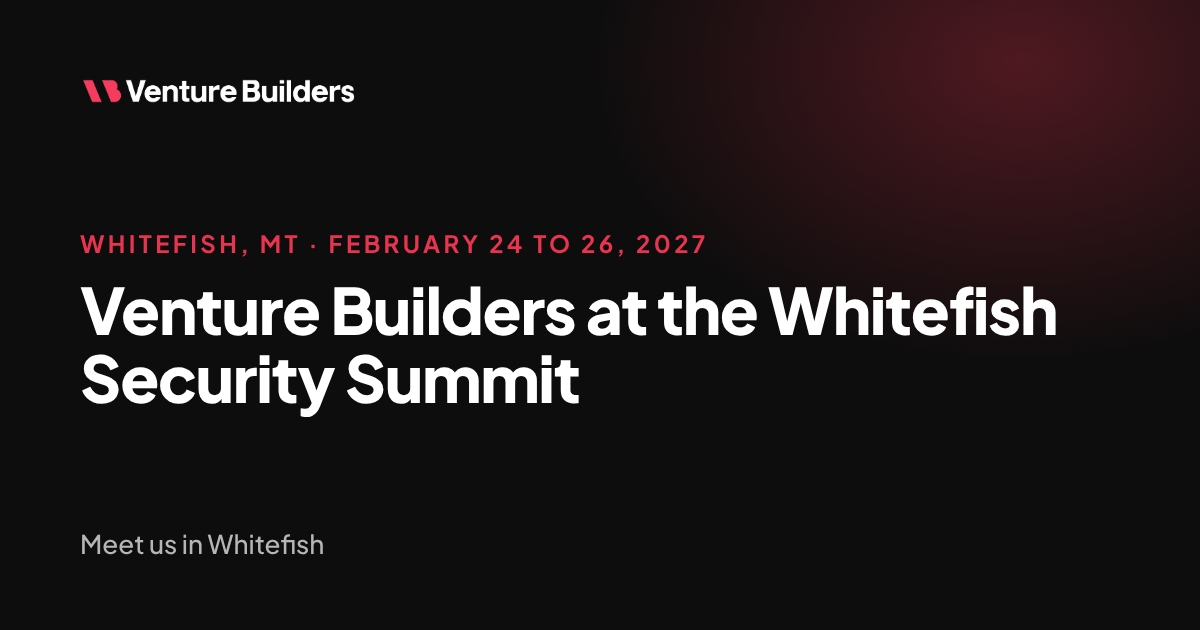
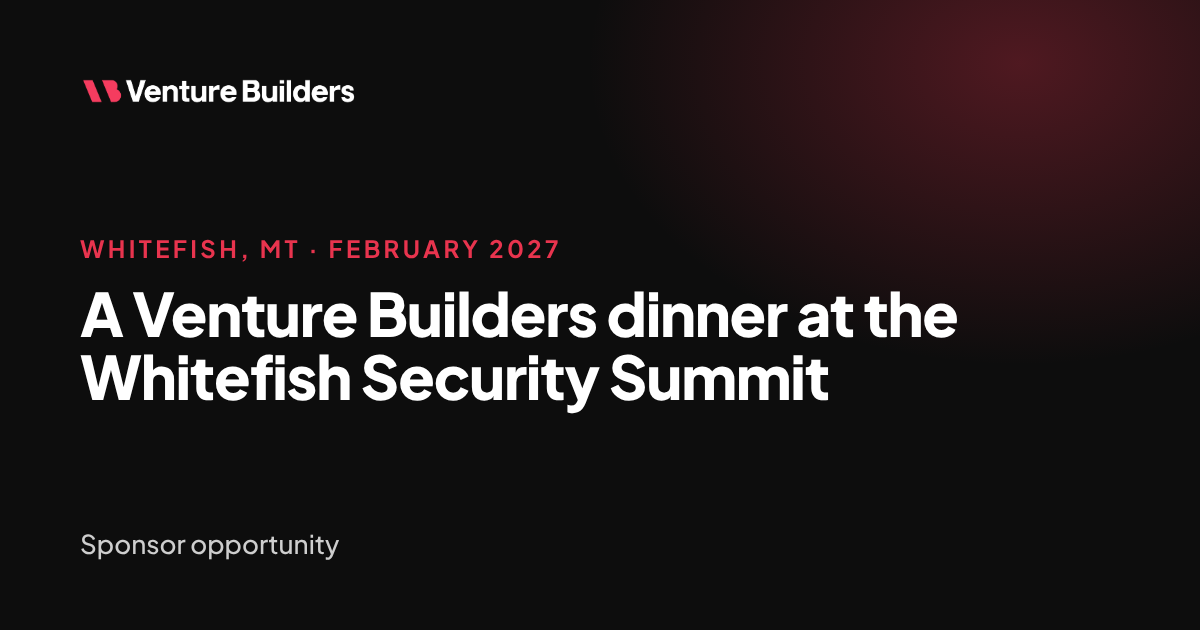
Event pages: Steve as host, no Luma link, Metropolitan hero; Whitefish as a sponsored dinner
Claude-Session: https://claude.ai/code/session_01PXg52VgSJg25MDTiPLEQFz

diff --git a/events/cheyenne-2027.html b/events/cheyenne-2027.html
@@ -20,20 +20,20 @@
   <meta charset="UTF-8">
   <meta name="viewport" content="width=device-width, initial-scale=1">
   <title>Venture Builders | gBETA Wyoming luncheon, Cheyenne, January 27, 2027</title>
-  <meta name="description" content="A private, seated lunch in Cheyenne, Wyoming for founders, accelerator leaders and investors, hosted by Venture Builders Fund and gBETA Wyoming, with lunch sponsored by Wells Fargo.">
+  <meta name="description" content="A private, seated lunch in Cheyenne, Wyoming for founders, accelerator leaders and investors, hosted by Venture Builders Fund with accelerator partner gBETA Wyoming and lunch sponsored by Wells Fargo.">
   <meta name="robots" content="index, follow">
   <link rel="canonical" href="https://venturebuilders.fund/events/cheyenne-2027">
   <meta property="og:type" content="website">
   <meta property="og:site_name" content="Venture Builders Fund">
   <meta property="og:title" content="Venture Builders | gBETA Wyoming luncheon, Cheyenne, January 27, 2027">
-  <meta property="og:description" content="A private, seated lunch in Cheyenne, Wyoming for founders, accelerator leaders and investors, hosted by Venture Builders Fund and gBETA Wyoming, with lunch sponsored by Wells Fargo.">
+  <meta property="og:description" content="A private, seated lunch in Cheyenne, Wyoming for founders, accelerator leaders and investors, hosted by Venture Builders Fund with accelerator partner gBETA Wyoming and lunch sponsored by Wells Fargo.">
   <meta property="og:url" content="https://venturebuilders.fund/events/cheyenne-2027">
   <meta property="og:image" content="https://venturebuilders.fund/images/events/og/cheyenne-2027.png">
   <meta property="og:image:width" content="1200">
   <meta property="og:image:height" content="630">
   <meta name="twitter:card" content="summary_large_image">
   <meta name="twitter:title" content="Venture Builders | gBETA Wyoming luncheon, Cheyenne, January 27, 2027">
-  <meta name="twitter:description" content="A private, seated lunch in Cheyenne, Wyoming for founders, accelerator leaders and investors, hosted by Venture Builders Fund and gBETA Wyoming, with lunch sponsored by Wells Fargo.">
+  <meta name="twitter:description" content="A private, seated lunch in Cheyenne, Wyoming for founders, accelerator leaders and investors, hosted by Venture Builders Fund with accelerator partner gBETA Wyoming and lunch sponsored by Wells Fargo.">
   <meta name="twitter:image" content="https://venturebuilders.fund/images/events/og/cheyenne-2027.png">
   <script type="application/ld+json">
 {
@@ -44,7 +44,7 @@
       "@id": "https://venturebuilders.fund/events/cheyenne-2027",
       "url": "https://venturebuilders.fund/events/cheyenne-2027",
       "name": "Venture Builders | gBETA Wyoming luncheon, Cheyenne, January 27, 2027",
-      "description": "A private, seated lunch in Cheyenne, Wyoming for founders, accelerator leaders and investors, hosted by Venture Builders Fund and gBETA Wyoming, with lunch sponsored by Wells Fargo.",
+      "description": "A private, seated lunch in Cheyenne, Wyoming for founders, accelerator leaders and investors, hosted by Venture Builders Fund with accelerator partner gBETA Wyoming and lunch sponsored by Wells Fargo.",
       "isPartOf": {
         "@type": "WebSite",
         "name": "Venture Builders Fund",
@@ -81,7 +81,7 @@
       "endDate": "2027-01-27T13:00:00-07:00",
       "eventStatus": "https://schema.org/EventScheduled",
       "eventAttendanceMode": "https://schema.org/OfflineEventAttendanceMode",
-      "description": "A private, seated lunch for founders, accelerator leaders and investors, by invitation.",
+      "description": "A private, seated lunch for founders, accelerator leaders and investors, by invitation only, hosted by Venture Builders Fund with accelerator partner gBETA Wyoming.",
       "image": "https://venturebuilders.fund/images/events/og/cheyenne-2027.png",
       "location": {
         "@type": "Place",
@@ -95,18 +95,11 @@
           "addressCountry": "US"
         }
       },
-      "organizer": [
-        {
-          "@type": "Organization",
-          "name": "Venture Builders Fund",
-          "url": "https://venturebuilders.fund/"
-        },
-        {
-          "@type": "Organization",
-          "name": "gBETA Wyoming",
-          "url": "https://www.gener8tor.com/gbeta"
-        }
-      ],
+      "organizer": {
+        "@type": "Organization",
+        "name": "Venture Builders Fund",
+        "url": "https://venturebuilders.fund/"
+      },
       "sponsor": {
         "@type": "Organization",
         "name": "Wells Fargo",
@@ -274,7 +267,7 @@
     .evp-hero h1 .accent{color:var(--accent)}
     .evp-sub{font-size:1.08rem;line-height:1.75;color:rgba(255,255,255,0.72);max-width:640px}
     .evp-actions{display:flex;flex-wrap:wrap;gap:0.75rem;margin-top:2rem}
-    .evp-card{background:#161616;border:1px solid rgba(255,255,255,0.1);border-radius:16px;padding:1.6rem}
+    .evp-card{background:rgba(18,18,18,0.72);backdrop-filter:blur(10px);-webkit-backdrop-filter:blur(10px);border:1px solid rgba(255,255,255,0.12);border-radius:16px;padding:1.6rem}
     .evp-card dl{display:grid;gap:1.1rem;margin:0}
     .evp-card dt{font-size:0.68rem;font-weight:700;letter-spacing:0.14em;text-transform:uppercase;color:var(--accent);margin-bottom:0.2rem}
     .evp-card dd{margin:0;font-size:0.98rem;line-height:1.5;color:#fff}
@@ -337,16 +330,16 @@
   </div>
   <div class="nav-overlay" id="nav-overlay"></div>
 <main>
-  <section class="evp-hero" aria-label="Cheyenne, January 2027">
+  <section class="evp-hero" style="background:linear-gradient(90deg,rgba(13,13,13,0.92) 0%,rgba(13,13,13,0.55) 45%,rgba(13,13,13,0.1) 100%),linear-gradient(to bottom,rgba(13,13,13,0) 60%,#0d0d0d 100%),url(/images/events/cheyenne-metropolitan.jpg) center 40%/cover no-repeat" aria-label="Cheyenne, January 2027">
     <div class="in">
       <div>
         <div class="evp-crumb"><a href="/">Home</a> / <a href="/events">Events</a> / Cheyenne, January 2027</div>
         <span class="evp-status"><i></i>Invitation only</span>
         <h1>Venture Builders <span class="accent">|</span> gBETA Wyoming luncheon</h1>
-        <p class="evp-sub">Venture Builders Fund and gener8tor's gBETA Wyoming are bringing founders, accelerator and ecosystem leaders and active investors together for a private lunch in downtown Cheyenne. No script and no pitches, just good conversation around one table.</p>
-        <div class="evp-actions"><a class="btn-primary" href="https://luma.com/8gj3ncg2" target="_blank" rel="noopener">Invited? Confirm your seat</a><a class="btn-ghost" href="/events#contact">Sponsor this lunch</a></div>
+        <p class="evp-sub">Venture Builders Fund is hosting a private lunch in downtown Cheyenne with our accelerator partner, gener8tor's gBETA Wyoming, bringing founders, accelerator and ecosystem leaders and active investors around one table. No script and no pitches, just good conversation.</p>
+        <div class="evp-actions"><a class="btn-primary" href="/events#contact">Sponsor this lunch</a><a class="btn-ghost" href="/calendar">See the 2027 calendar</a></div>
       </div>
-      <aside class="evp-card"><dl><div><dt>When</dt><dd>Wednesday, January 27, 2027<span>11:30 AM to 1:00 PM MST</span></dd></div><div><dt>Where</dt><dd>The Metropolitan Downtown<span>1701 Carey Ave, Cheyenne, WY 82001</span></dd></div><div><dt>Format</dt><dd>Reception, then a seated lunch<span>18 seats, by invitation</span></dd></div><div><dt>Hosts</dt><dd>Baylie Evans, gBETA Wyoming<span>Steve Hayton, Venture Builders Fund</span></dd></div></dl></aside>
+      <aside class="evp-card"><dl><div><dt>When</dt><dd>Wednesday, January 27, 2027<span>11:30 AM to 1:00 PM MST</span></dd></div><div><dt>Where</dt><dd>The Metropolitan Downtown<span>1701 Carey Ave, Cheyenne, WY 82001</span></dd></div><div><dt>Format</dt><dd>Reception, then a seated lunch<span>18 seats, by invitation only</span></dd></div><div><dt>Host</dt><dd>Steve Hayton<span>General Partner, Venture Builders Fund</span></dd></div><div><dt>Accelerator partner</dt><dd>Baylie Evans<span>Managing Director, gBETA Wyoming</span></dd></div></dl></aside>
     </div>
   </section>
 
@@ -355,7 +348,7 @@
       <div class="evp-body reveal">
         <p class="sec-tag">The afternoon</p>
         <h2 class="sec-h" style="margin-bottom:1.25rem">One table, the right people</h2>
-        <p>We start with a short reception at The Metropolitan, then sit down together for lunch. Every seat is planned by hand, and over coffee we move seats so everyone leaves having met someone new.</p><p>The room is kept small on purpose, so founders get real time with the investors and partners who can help them grow.</p>
+        <p>We start with a short reception at The Metropolitan, then sit down together for lunch. Every seat is planned by hand, and over coffee we move seats so everyone leaves having met someone new.</p><p>The room is kept small on purpose, so founders get real time with the investors and partners who can help them grow. Seats are by invitation only.</p>
         <div class="evp-who"><div><strong>Founders</strong><p>From the current gBETA Wyoming cohort, plus program alumni.</p></div><div><strong>Ecosystem leaders</strong><p>The gBETA Wyoming team and the accelerator and ecosystem builders around it.</p></div><div><strong>Corporate partners</strong><p>A small number of partners who back Wyoming's founders.</p></div><div><strong>Investors</strong><p>The Venture Builders Fund team and active investors.</p></div></div>
         
       </div>
@@ -364,9 +357,9 @@
 
   <section class="sec" style="background:#fafafa">
     <div style="max-width:1200px;margin:0 auto">
-      <div class="sec-header reveal"><p class="sec-tag">Hosts and sponsor</p><h2 class="sec-h">Who's making it happen</h2></div>
-      <div class="evp-logos reveal" style="margin-top:2rem"><a class="evp-logo" href="https://venturebuilders.fund/" target="_blank" rel="noopener"><div class="box"><img src="/logo-dark.png" alt="Venture Builders Fund" loading="lazy"></div><div><div class="role">Host</div><div class="nm">Venture Builders Fund</div></div><div class="ds">A seed-stage fund investing behind founders referred by startup ecosystem leaders.</div></a><a class="evp-logo" href="https://www.gener8tor.com/gbeta" target="_blank" rel="noopener"><div class="box"><img src="/images/events/logos/gbeta.png" alt="gBETA Wyoming" loading="lazy"></div><div><div class="role">Host partner</div><div class="nm">gBETA Wyoming</div></div><div class="ds">gener8tor's free, no-equity accelerator for early-stage companies with local roots.</div></a><a class="evp-logo" href="https://www.wellsfargo.com/" target="_blank" rel="noopener"><div class="box"><img src="/images/events/sponsor-wells-fargo.png" alt="Wells Fargo" loading="lazy"></div><div><div class="role">Lunch sponsor</div><div class="nm">Wells Fargo</div></div><div class="ds">Our lunch sponsor for the afternoon.</div></a></div>
-      <p class="evp-note reveal">Phone numbers collected when guests register are only used to confirm seats and are never shared with partners.</p>
+      <div class="sec-header reveal"><p class="sec-tag">Host, partner and sponsor</p><h2 class="sec-h">Who's making it happen</h2></div>
+      <div class="evp-logos reveal" style="margin-top:2rem"><a class="evp-logo" href="https://venturebuilders.fund/" target="_blank" rel="noopener"><div class="box"><img src="/logo-dark.png" alt="Venture Builders Fund" loading="lazy"></div><div><div class="role">Host</div><div class="nm">Venture Builders Fund</div></div><div class="ds">A seed-stage fund investing behind founders referred by startup ecosystem leaders.</div></a><a class="evp-logo" href="https://www.gener8tor.com/gbeta" target="_blank" rel="noopener"><div class="box"><img src="/images/events/logos/gbeta.png" alt="gBETA Wyoming" loading="lazy"></div><div><div class="role">Accelerator partner</div><div class="nm">gBETA Wyoming</div></div><div class="ds">gener8tor's free, no-equity accelerator for early-stage companies with local roots.</div></a><a class="evp-logo" href="https://www.wellsfargo.com/" target="_blank" rel="noopener"><div class="box"><img src="/images/events/sponsor-wells-fargo.png" alt="Wells Fargo" loading="lazy"></div><div><div class="role">Lunch sponsor</div><div class="nm">Wells Fargo</div></div><div class="ds">Our lunch sponsor for the afternoon.</div></a></div>
+      <p class="evp-note reveal"></p>
     </div>
   </section>
 

diff --git a/events/whitefish-2027.html b/events/whitefish-2027.html
@@ -19,21 +19,21 @@
   </script>
   <meta charset="UTF-8">
   <meta name="viewport" content="width=device-width, initial-scale=1">
-  <title>Venture Builders at the Whitefish Security Summit, February 24 to 26, 2027</title>
-  <meta name="description" content="Venture Builders Fund will be at the Whitefish Security Summit in Whitefish, Montana, February 24 to 26, 2027. Meet us if you&#x27;re building, funding or buying defense and dual-use technology.">
+  <title>Venture Builders dinner at the Whitefish Security Summit, February 2027</title>
+  <meta name="description" content="Venture Builders Fund is planning a private dinner in Whitefish, Montana during the Whitefish Security Summit, February 24 to 26, 2027, for defense founders, investors and government innovation funders. The dinner is open to a sponsor.">
   <meta name="robots" content="index, follow">
   <link rel="canonical" href="https://venturebuilders.fund/events/whitefish-2027">
   <meta property="og:type" content="website">
   <meta property="og:site_name" content="Venture Builders Fund">
-  <meta property="og:title" content="Venture Builders at the Whitefish Security Summit, February 24 to 26, 2027">
-  <meta property="og:description" content="Venture Builders Fund will be at the Whitefish Security Summit in Whitefish, Montana, February 24 to 26, 2027. Meet us if you&#x27;re building, funding or buying defense and dual-use technology.">
+  <meta property="og:title" content="Venture Builders dinner at the Whitefish Security Summit, February 2027">
+  <meta property="og:description" content="Venture Builders Fund is planning a private dinner in Whitefish, Montana during the Whitefish Security Summit, February 24 to 26, 2027, for defense founders, investors and government innovation funders. The dinner is open to a sponsor.">
   <meta property="og:url" content="https://venturebuilders.fund/events/whitefish-2027">
   <meta property="og:image" content="https://venturebuilders.fund/images/events/og/whitefish-2027.png">
   <meta property="og:image:width" content="1200">
   <meta property="og:image:height" content="630">
   <meta name="twitter:card" content="summary_large_image">
-  <meta name="twitter:title" content="Venture Builders at the Whitefish Security Summit, February 24 to 26, 2027">
-  <meta name="twitter:description" content="Venture Builders Fund will be at the Whitefish Security Summit in Whitefish, Montana, February 24 to 26, 2027. Meet us if you&#x27;re building, funding or buying defense and dual-use technology.">
+  <meta name="twitter:title" content="Venture Builders dinner at the Whitefish Security Summit, February 2027">
+  <meta name="twitter:description" content="Venture Builders Fund is planning a private dinner in Whitefish, Montana during the Whitefish Security Summit, February 24 to 26, 2027, for defense founders, investors and government innovation funders. The dinner is open to a sponsor.">
   <meta name="twitter:image" content="https://venturebuilders.fund/images/events/og/whitefish-2027.png">
   <script type="application/ld+json">
 {
@@ -43,8 +43,8 @@
       "@type": "WebPage",
       "@id": "https://venturebuilders.fund/events/whitefish-2027",
       "url": "https://venturebuilders.fund/events/whitefish-2027",
-      "name": "Venture Builders at the Whitefish Security Summit, February 24 to 26, 2027",
-      "description": "Venture Builders Fund will be at the Whitefish Security Summit in Whitefish, Montana, February 24 to 26, 2027. Meet us if you're building, funding or buying defense and dual-use technology.",
+      "name": "Venture Builders dinner at the Whitefish Security Summit, February 2027",
+      "description": "Venture Builders Fund is planning a private dinner in Whitefish, Montana during the Whitefish Security Summit, February 24 to 26, 2027, for defense founders, investors and government innovation funders. The dinner is open to a sponsor.",
       "isPartOf": {
         "@type": "WebSite",
         "name": "Venture Builders Fund",
@@ -234,7 +234,7 @@
     .evp-hero h1 .accent{color:var(--accent)}
     .evp-sub{font-size:1.08rem;line-height:1.75;color:rgba(255,255,255,0.72);max-width:640px}
     .evp-actions{display:flex;flex-wrap:wrap;gap:0.75rem;margin-top:2rem}
-    .evp-card{background:#161616;border:1px solid rgba(255,255,255,0.1);border-radius:16px;padding:1.6rem}
+    .evp-card{background:rgba(18,18,18,0.72);backdrop-filter:blur(10px);-webkit-backdrop-filter:blur(10px);border:1px solid rgba(255,255,255,0.12);border-radius:16px;padding:1.6rem}
     .evp-card dl{display:grid;gap:1.1rem;margin:0}
     .evp-card dt{font-size:0.68rem;font-weight:700;letter-spacing:0.14em;text-transform:uppercase;color:var(--accent);margin-bottom:0.2rem}
     .evp-card dd{margin:0;font-size:0.98rem;line-height:1.5;color:#fff}
@@ -301,23 +301,23 @@
     <div class="in">
       <div>
         <div class="evp-crumb"><a href="/">Home</a> / <a href="/events">Events</a> / Whitefish, February 2027</div>
-        <span class="evp-status"><i></i>We'll be there</span>
-        <h1>Venture Builders at the <span class="accent">Whitefish Security Summit</span></h1>
-        <p class="evp-sub">We'll be in Whitefish, Montana for the second annual Whitefish Security Summit, where the 2027 focus is autonomous warfare meeting artificial intelligence. If you're building, funding or buying defense and dual-use technology, we'd like to meet you there.</p>
-        <div class="evp-actions"><a class="btn-primary" href="https://calendar.app.google/MeVkrWi7E9EmvCJc7" target="_blank" rel="noopener">Book time with us in Whitefish</a><a class="btn-ghost" href="https://whitefishsecuritysummit.com" target="_blank" rel="noopener">About the summit</a></div>
+        <span class="evp-status"><i></i>Sponsor opportunity</span>
+        <h1>A Venture Builders dinner at the <span class="accent">Whitefish Security Summit</span></h1>
+        <p class="evp-sub">We'll be in Whitefish, Montana for the second annual Whitefish Security Summit, where the 2027 focus is autonomous warfare meeting artificial intelligence. While we're there, we're planning a private dinner for defense founders, investors and government innovation funders, and we're looking for a sponsor to host the room with us.</p>
+        <div class="evp-actions"><a class="btn-primary" href="/events#contact">Sponsor the Whitefish dinner</a><a class="btn-ghost" href="https://whitefishsecuritysummit.com" target="_blank" rel="noopener">About the summit</a></div>
       </div>
-      <aside class="evp-card"><dl><div><dt>When</dt><dd>February 24 to 26, 2027</dd></div><div><dt>Where</dt><dd>Whitefish, Montana<span>Flathead Valley</span></dd></div><div><dt>Summit focus</dt><dd>Autonomous warfare meets artificial intelligence</dd></div><div><dt>Who's going</dt><dd>The Venture Builders Fund team</dd></div></dl></aside>
+      <aside class="evp-card"><dl><div><dt>When</dt><dd>During the summit<span>February 24 to 26, 2027</span></dd></div><div><dt>Where</dt><dd>Whitefish, Montana<span>Venue to be confirmed</span></dd></div><div><dt>Format</dt><dd>A private, seated dinner<span>By invitation, around 20 seats</span></dd></div><div><dt>Summit focus</dt><dd>Autonomous warfare meets artificial intelligence</dd></div></dl></aside>
     </div>
   </section>
 
   <section class="sec" style="background:#fff">
     <div style="max-width:1200px;margin:0 auto">
       <div class="evp-body reveal">
-        <p class="sec-tag">Why we're going</p>
-        <h2 class="sec-h" style="margin-bottom:1.25rem">Defense founders need investors and buyers in the same room</h2>
-        <p>Founders building for national security face a hard path: long sales cycles, a small set of buyers and investors who don't always know the space. The Whitefish Security Summit brings practitioners, technologists and funders together for three days, and we're going to meet the founders in the middle of it.</p><p>We're also looking at hosting a small gathering for defense founders and investors around the summit. If you'd like to be part of it, as a guest or a sponsor, get in touch.</p>
-        <div class="evp-who"><div><strong>Defense and dual-use founders</strong><p>Especially those coming out of accelerators and looking for their first large customer.</p></div><div><strong>Government innovation funders</strong><p>Programs that invest in and buy from early-stage defense companies, in the US and allied countries.</p></div><div><strong>Investors</strong><p>Funds and angels active in national security and dual-use technology.</p></div><div><strong>Accelerator and ecosystem leaders</strong><p>Programs supporting defense founders who want to compare notes.</p></div></div>
-        <p class="evp-note">The Whitefish Security Summit is run in partnership with the Lobo Institute. Venture Builders Fund is attending and is not an organizer of the summit.</p>
+        <p class="sec-tag">The dinner</p>
+        <h2 class="sec-h" style="margin-bottom:1.25rem">Defense founders, investors and buyers at one table</h2>
+        <p>Founders building for national security face a hard path: long sales cycles, a small set of buyers and investors who don't always know the space. The Whitefish Security Summit brings practitioners, technologists and funders together for three days, and our dinner puts the right people from that week around one table.</p><p>As with every Venture Builders dinner, seats are planned by hand, conversations are seeded, and our sponsor is part of the evening, not just a logo on the menu. The sponsor receives the guest list ahead of the night and introductions to follow up on.</p>
+        <div class="evp-who"><div><strong>Defense and dual-use founders</strong><p>Especially those coming out of accelerators and looking for their first large customer.</p></div><div><strong>Government innovation funders</strong><p>Programs that invest in and buy from early-stage defense companies, in the US and allied countries.</p></div><div><strong>Investors</strong><p>Funds and angels active in national security and dual-use technology.</p></div><div><strong>Our sponsor</strong><p>One company hosting the room with us and meeting every guest.</p></div></div>
+        <p class="evp-note">The Whitefish Security Summit is run in partnership with the Lobo Institute. Venture Builders Fund is attending the summit and hosting this dinner independently; we are not an organizer of the summit.</p>
       </div>
     </div>
   </section>
@@ -325,15 +325,15 @@
 
   <section class="sec" style="background:#fff">
     <div style="max-width:1200px;margin:0 auto">
-      <div class="evp-recap reveal"><strong>Notes and photos from Whitefish will be shared here</strong>After the summit, this page becomes a recap of who we met and what we heard.</div>
+      <div class="evp-recap reveal"><strong>Photos from Whitefish will be shared here</strong>After the summit, this page becomes a recap of the dinner, with photos and highlights.</div>
     </div>
   </section>
 
   <section class="sec contact-sec">
     <div style="max-width:900px;margin:0 auto;text-align:center" class="reveal">
       <p class="sec-tag">Sponsors and partners</p>
-      <h2 class="sec-h" style="color:#fff">Sponsor a defense founders gathering in Whitefish</h2>
-      <p style="color:rgba(255,255,255,0.7);font-size:1.02rem;line-height:1.8;margin:1rem auto 2rem;max-width:640px">Put your company in front of defense founders, investors and government funders while they're all in one place.</p>
+      <h2 class="sec-h" style="color:#fff">Host the Whitefish dinner with us</h2>
+      <p style="color:rgba(255,255,255,0.7);font-size:1.02rem;line-height:1.8;margin:1rem auto 2rem;max-width:640px">Put your company in front of defense founders, investors and government funders while they're all in one place. One sponsor, one room, no red tape.</p>
       <div class="evp-actions" style="justify-content:center"><a class="btn-primary" href="/events#contact">Talk to us about sponsoring</a><a class="btn-ghost" href="/calendar">See the 2027 calendar</a></div>
     </div>
   </section>

diff --git a/scripts/build_event_pages.py b/scripts/build_event_pages.py
@@ -29,7 +29,7 @@ EXTRA = """
     .evp-hero h1 .accent{color:var(--accent)}
     .evp-sub{font-size:1.08rem;line-height:1.75;color:rgba(255,255,255,0.72);max-width:640px}
     .evp-actions{display:flex;flex-wrap:wrap;gap:0.75rem;margin-top:2rem}
-    .evp-card{background:#161616;border:1px solid rgba(255,255,255,0.1);border-radius:16px;padding:1.6rem}
+    .evp-card{background:rgba(18,18,18,0.72);backdrop-filter:blur(10px);-webkit-backdrop-filter:blur(10px);border:1px solid rgba(255,255,255,0.12);border-radius:16px;padding:1.6rem}
     .evp-card dl{display:grid;gap:1.1rem;margin:0}
     .evp-card dt{font-size:0.68rem;font-weight:700;letter-spacing:0.14em;text-transform:uppercase;color:var(--accent);margin-bottom:0.2rem}
     .evp-card dd{margin:0;font-size:0.98rem;line-height:1.5;color:#fff}
@@ -88,6 +88,7 @@ def page(e):
   </section>
 ''' if e["logos"] else "")
     body_note = f'<p class="evp-note">{e["body_note"]}</p>' if e.get("body_note") else ""
+    hero_style = (f' style="background:linear-gradient(90deg,rgba(13,13,13,0.92) 0%,rgba(13,13,13,0.55) 45%,rgba(13,13,13,0.1) 100%),linear-gradient(to bottom,rgba(13,13,13,0) 60%,#0d0d0d 100%),url({e["hero_img"]}) center 40%/cover no-repeat"' if e.get("hero_img") else "")
     nav = fix_links(NAV).replace('href="/events" class="active"', 'href="/events" class="active"')
     return f"""<!DOCTYPE html>
 <html lang="en">
@@ -122,7 +123,7 @@ def page(e):
 <body>
 {nav}
 <main>
-  <section class="evp-hero" aria-label="{html.escape(e['crumb'])}">
+  <section class="evp-hero"{hero_style} aria-label="{html.escape(e['crumb'])}">
     <div class="in">
       <div>
         <div class="evp-crumb"><a href="/">Home</a> / <a href="/events">Events</a> / {e['crumb']}</div>
@@ -189,67 +190,68 @@ VBF_LOGO = {"img": "/logo-dark.png", "name": "Venture Builders Fund", "url": "ht
 
 EVENTS = [
  {"slug": "cheyenne-2027", "crumb": "Cheyenne, January 2027", "status": "Invitation only",
+  "hero_img": "/images/events/cheyenne-metropolitan.jpg",
   "title": "Venture Builders | gBETA Wyoming luncheon, Cheyenne, January 27, 2027",
-  "desc": "A private, seated lunch in Cheyenne, Wyoming for founders, accelerator leaders and investors, hosted by Venture Builders Fund and gBETA Wyoming, with lunch sponsored by Wells Fargo.",
+  "desc": "A private, seated lunch in Cheyenne, Wyoming for founders, accelerator leaders and investors, hosted by Venture Builders Fund with accelerator partner gBETA Wyoming and lunch sponsored by Wells Fargo.",
   "h1": 'Venture Builders <span class="accent">|</span> gBETA Wyoming luncheon',
-  "sub": "Venture Builders Fund and gener8tor's gBETA Wyoming are bringing founders, accelerator and ecosystem leaders and active investors together for a private lunch in downtown Cheyenne. No script and no pitches, just good conversation around one table.",
-  "actions": [("btn-primary", "Invited? Confirm your seat", "https://luma.com/8gj3ncg2"), ("btn-ghost", "Sponsor this lunch", "/events#contact")],
+  "sub": "Venture Builders Fund is hosting a private lunch in downtown Cheyenne with our accelerator partner, gener8tor's gBETA Wyoming, bringing founders, accelerator and ecosystem leaders and active investors around one table. No script and no pitches, just good conversation.",
+  "actions": [("btn-primary", "Sponsor this lunch", "/events#contact"), ("btn-ghost", "See the 2027 calendar", "/calendar")],
   "details": [("When", "Wednesday, January 27, 2027<span>11:30 AM to 1:00 PM MST</span>"),
               ("Where", "The Metropolitan Downtown<span>1701 Carey Ave, Cheyenne, WY 82001</span>"),
-              ("Format", "Reception, then a seated lunch<span>18 seats, by invitation</span>"),
-              ("Hosts", "Baylie Evans, gBETA Wyoming<span>Steve Hayton, Venture Builders Fund</span>")],
+              ("Format", "Reception, then a seated lunch<span>18 seats, by invitation only</span>"),
+              ("Host", "Steve Hayton<span>General Partner, Venture Builders Fund</span>"),
+              ("Accelerator partner", "Baylie Evans<span>Managing Director, gBETA Wyoming</span>")],
   "body_tag": "The afternoon", "body_h": "One table, the right people",
   "body": ["We start with a short reception at The Metropolitan, then sit down together for lunch. Every seat is planned by hand, and over coffee we move seats so everyone leaves having met someone new.",
-           "The room is kept small on purpose, so founders get real time with the investors and partners who can help them grow."],
+           "The room is kept small on purpose, so founders get real time with the investors and partners who can help them grow. Seats are by invitation only."],
   "who": [("Founders", "From the current gBETA Wyoming cohort, plus program alumni."),
           ("Ecosystem leaders", "The gBETA Wyoming team and the accelerator and ecosystem builders around it."),
           ("Corporate partners", "A small number of partners who back Wyoming's founders."),
           ("Investors", "The Venture Builders Fund team and active investors.")],
-  "logos_tag": "Hosts and sponsor", "logos_h": "Who's making it happen",
+  "logos_tag": "Host, partner and sponsor", "logos_h": "Who's making it happen",
   "logos": [dict(VBF_LOGO, role="Host"),
-            {"img": "/images/events/logos/gbeta.png", "name": "gBETA Wyoming", "role": "Host partner", "url": "https://www.gener8tor.com/gbeta",
+            {"img": "/images/events/logos/gbeta.png", "name": "gBETA Wyoming", "role": "Accelerator partner", "url": "https://www.gener8tor.com/gbeta",
              "desc": "gener8tor's free, no-equity accelerator for early-stage companies with local roots."},
             {"img": "/images/events/sponsor-wells-fargo.png", "name": "Wells Fargo", "role": "Lunch sponsor", "url": "https://www.wellsfargo.com/",
              "desc": "Our lunch sponsor for the afternoon."}],
-  "logos_note": "Phone numbers collected when guests register are only used to confirm seats and are never shared with partners.",
   "recap_h": "Photos from the lunch will be shared here",
   "recap_p": "After January 27, this page becomes a recap of the afternoon, with photos and highlights.",
   "cta_h": "Want your company at the table?",
   "cta_p": "Every Venture Builders lunch and dinner is open to sponsors. Put your team in a room of founders, accelerator leaders and investors, with no red tape.",
-  "og": "/images/events/og/cheyenne-2027.png", "og_lines": ("Venture Builders | gBETA Wyoming luncheon", "Cheyenne, WY  ·  January 27, 2027", "Lunch sponsored by Wells Fargo"),
+  "og": "/images/events/og/cheyenne-2027.png", "og_bg": "/images/events/cheyenne-metropolitan.jpg", "og_lines": ("Venture Builders | gBETA Wyoming luncheon", "Cheyenne, WY  ·  January 27, 2027", "Hosted by Venture Builders Fund  ·  Lunch sponsored by Wells Fargo"),
   "schema_event": {"@type": "Event", "name": "Venture Builders | gBETA Wyoming luncheon",
       "startDate": "2027-01-27T11:30:00-07:00", "endDate": "2027-01-27T13:00:00-07:00",
       "eventStatus": "https://schema.org/EventScheduled", "eventAttendanceMode": "https://schema.org/OfflineEventAttendanceMode",
-      "description": "A private, seated lunch for founders, accelerator leaders and investors, by invitation.",
+      "description": "A private, seated lunch for founders, accelerator leaders and investors, by invitation only, hosted by Venture Builders Fund with accelerator partner gBETA Wyoming.",
       "image": "https://venturebuilders.fund/images/events/og/cheyenne-2027.png",
       "location": {"@type": "Place", "name": "The Metropolitan Downtown", "address": {"@type": "PostalAddress", "streetAddress": "1701 Carey Ave", "addressLocality": "Cheyenne", "addressRegion": "WY", "postalCode": "82001", "addressCountry": "US"}},
-      "organizer": [{"@type": "Organization", "name": "Venture Builders Fund", "url": "https://venturebuilders.fund/"}, {"@type": "Organization", "name": "gBETA Wyoming", "url": "https://www.gener8tor.com/gbeta"}],
+      "organizer": {"@type": "Organization", "name": "Venture Builders Fund", "url": "https://venturebuilders.fund/"},
       "sponsor": {"@type": "Organization", "name": "Wells Fargo", "url": "https://www.wellsfargo.com/"},
       "isAccessibleForFree": True}},
- {"slug": "whitefish-2027", "crumb": "Whitefish, February 2027", "status": "We'll be there",
-  "title": "Venture Builders at the Whitefish Security Summit, February 24 to 26, 2027",
-  "desc": "Venture Builders Fund will be at the Whitefish Security Summit in Whitefish, Montana, February 24 to 26, 2027. Meet us if you're building, funding or buying defense and dual-use technology.",
-  "h1": 'Venture Builders at the <span class="accent">Whitefish Security Summit</span>',
-  "sub": "We'll be in Whitefish, Montana for the second annual Whitefish Security Summit, where the 2027 focus is autonomous warfare meeting artificial intelligence. If you're building, funding or buying defense and dual-use technology, we'd like to meet you there.",
-  "actions": [("btn-primary", "Book time with us in Whitefish", "https://calendar.app.google/MeVkrWi7E9EmvCJc7"), ("btn-ghost", "About the summit", "https://whitefishsecuritysummit.com")],
-  "details": [("When", "February 24 to 26, 2027"),
-              ("Where", "Whitefish, Montana<span>Flathead Valley</span>"),
-              ("Summit focus", "Autonomous warfare meets artificial intelligence"),
-              ("Who's going", "The Venture Builders Fund team")],
-  "body_tag": "Why we're going", "logos_tag": "", "logos_h": "", "body_h": "Defense founders need investors and buyers in the same room",
-  "body": ["Founders building for national security face a hard path: long sales cycles, a small set of buyers and investors who don't always know the space. The Whitefish Security Summit brings practitioners, technologists and funders together for three days, and we're going to meet the founders in the middle of it.",
-           "We're also looking at hosting a small gathering for defense founders and investors around the summit. If you'd like to be part of it, as a guest or a sponsor, get in touch."],
+ {"slug": "whitefish-2027", "crumb": "Whitefish, February 2027", "status": "Sponsor opportunity",
+  "title": "Venture Builders dinner at the Whitefish Security Summit, February 2027",
+  "desc": "Venture Builders Fund is planning a private dinner in Whitefish, Montana during the Whitefish Security Summit, February 24 to 26, 2027, for defense founders, investors and government innovation funders. The dinner is open to a sponsor.",
+  "h1": 'A Venture Builders dinner at the <span class="accent">Whitefish Security Summit</span>',
+  "sub": "We'll be in Whitefish, Montana for the second annual Whitefish Security Summit, where the 2027 focus is autonomous warfare meeting artificial intelligence. While we're there, we're planning a private dinner for defense founders, investors and government innovation funders, and we're looking for a sponsor to host the room with us.",
+  "actions": [("btn-primary", "Sponsor the Whitefish dinner", "/events#contact"), ("btn-ghost", "About the summit", "https://whitefishsecuritysummit.com")],
+  "details": [("When", "During the summit<span>February 24 to 26, 2027</span>"),
+              ("Where", "Whitefish, Montana<span>Venue to be confirmed</span>"),
+              ("Format", "A private, seated dinner<span>By invitation, around 20 seats</span>"),
+              ("Summit focus", "Autonomous warfare meets artificial intelligence")],
+  "body_tag": "The dinner", "body_h": "Defense founders, investors and buyers at one table",
+  "body": ["Founders building for national security face a hard path: long sales cycles, a small set of buyers and investors who don't always know the space. The Whitefish Security Summit brings practitioners, technologists and funders together for three days, and our dinner puts the right people from that week around one table.",
+           "As with every Venture Builders dinner, seats are planned by hand, conversations are seeded, and our sponsor is part of the evening, not just a logo on the menu. The sponsor receives the guest list ahead of the night and introductions to follow up on."],
   "who": [("Defense and dual-use founders", "Especially those coming out of accelerators and looking for their first large customer."),
           ("Government innovation funders", "Programs that invest in and buy from early-stage defense companies, in the US and allied countries."),
           ("Investors", "Funds and angels active in national security and dual-use technology."),
-          ("Accelerator and ecosystem leaders", "Programs supporting defense founders who want to compare notes.")],
+          ("Our sponsor", "One company hosting the room with us and meeting every guest.")],
   "logos": [],
-  "body_note": "The Whitefish Security Summit is run in partnership with the Lobo Institute. Venture Builders Fund is attending and is not an organizer of the summit.",
-  "recap_h": "Notes and photos from Whitefish will be shared here",
-  "recap_p": "After the summit, this page becomes a recap of who we met and what we heard.",
-  "cta_h": "Sponsor a defense founders gathering in Whitefish",
-  "cta_p": "Put your company in front of defense founders, investors and government funders while they're all in one place.",
-  "og": "/images/events/og/whitefish-2027.png", "og_lines": ("Venture Builders at the Whitefish Security Summit", "Whitefish, MT  ·  February 24 to 26, 2027", "Meet us in Whitefish")},
+  "body_note": "The Whitefish Security Summit is run in partnership with the Lobo Institute. Venture Builders Fund is attending the summit and hosting this dinner independently; we are not an organizer of the summit.",
+  "recap_h": "Photos from Whitefish will be shared here",
+  "recap_p": "After the summit, this page becomes a recap of the dinner, with photos and highlights.",
+  "cta_h": "Host the Whitefish dinner with us",
+  "cta_p": "Put your company in front of defense founders, investors and government funders while they're all in one place. One sponsor, one room, no red tape.",
+  "og": "/images/events/og/whitefish-2027.png", "og_lines": ("A Venture Builders dinner at the Whitefish Security Summit", "Whitefish, MT  ·  February 2027", "Sponsor opportunity")},
 ]
 
 if __name__ == "__main__":
